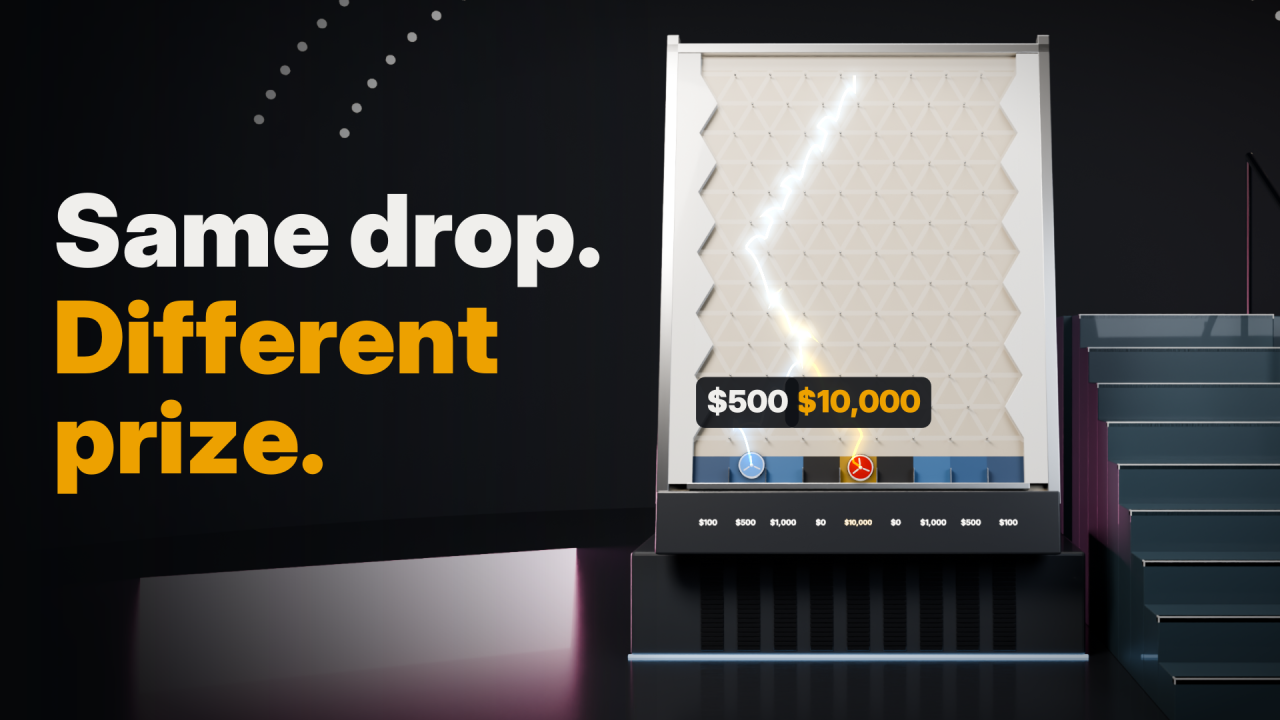
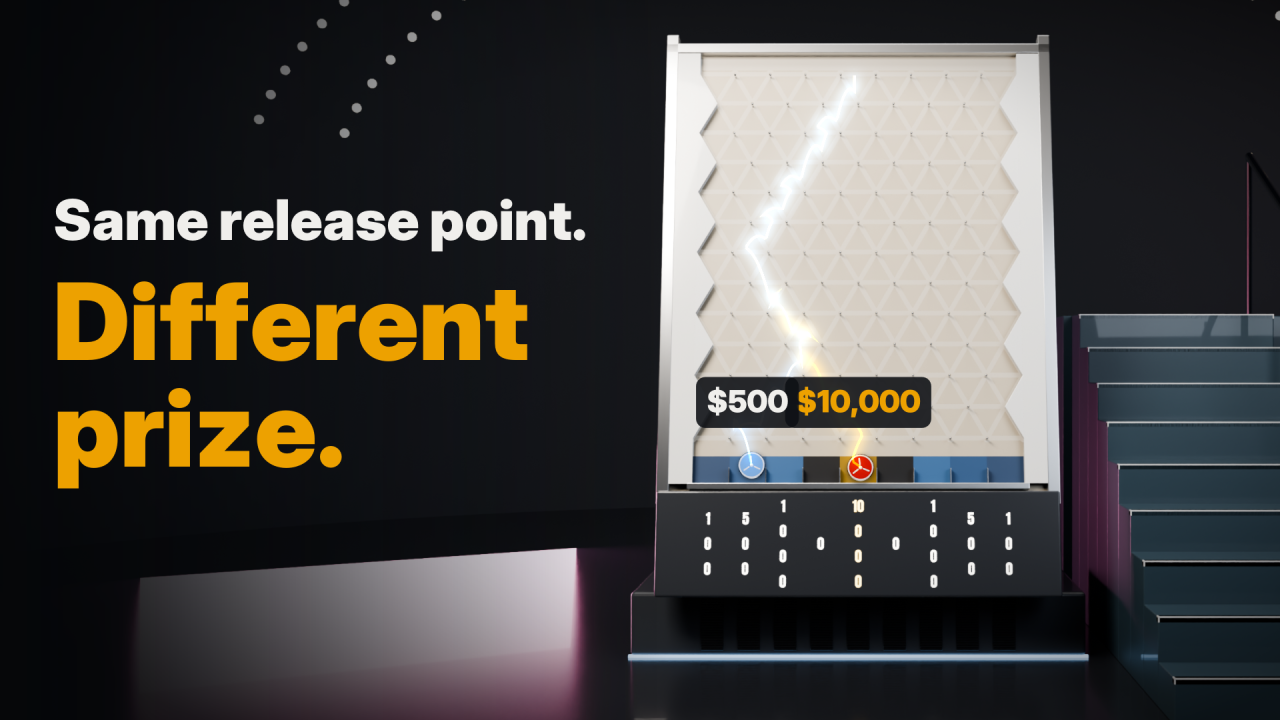
Chaos cut: new thumbnails, titles and description for the 6:07 film
Thumbnails A/B rebuilt from the final hook frame (new stacked prize digits,
"release point" wording) and a new C from the warm-board pair (0.00006 C:
$10,000 became $0). Five titles with lengths and thumbnail pairings; the
description follows the film (chaos theory, round pins, release points,
heat), with 6:07 chapters, tags and an optional pinned comment.

Claude-Session: https://claude.ai/code/session_01S7EUMzPhLyDgSQHoFb2Ud4

diff --git a/plinko/thumbs_chaos.py b/plinko/thumbs_chaos.py
@@ -1,6 +1,9 @@
-"""Thumbnails for the chaos cut (1280x720), from the hook's last frame without its captions.
+"""Thumbnails for the chaos cut (1280x720), from the film's own frames without their captions.
 
-    python3 thumbs_chaos.py   -> ../videos/plinko/thumbnails/plinko_chaos_thumb_A.png, _B.png
+    python3 thumbs_chaos.py   -> ../videos/plinko/thumbnails/plinko_chaos_thumb_A.png, _B.png, _C.png
+
+A and B: the hook's last frame (a $10,000 drop and its atom-close replay in $500).
+C: the warm-board pair (the same release point, the board 0.00006 C warmer: $10,000 and $0).
 """
 import cairo
 import numpy as np
@@ -11,27 +14,38 @@ import draw as D
 import thumbs3d as T
 
 
-def hook_frame(t=15.5):
-    sh = CC.shot_by_name("hook")
+def shot_frame(name, t, overlay):
+    """The composited frame of a shot at time t, with only its glowing trails (captions drawn off-screen)."""
+    sh = CC.shot_by_name(name)
     fr = int(round(t * CC.FPS)) + 1
     img, crop = C3.base_frame(sh, fr, t)
     img = img * C3.vignette()
     cm = C3.cam(sh["cam"])
     gsurf, gctx = C3.glow_layer()
-    CC.ov_hook(cairo.Context(cairo.ImageSurface(cairo.FORMAT_ARGB32, CC.OW, CC.OH)), gctx, t, sh, cm, crop)
-    img = C3.add_glow(img, gsurf)
-    rep = CC.HP["hook_replay"]
+    overlay(cairo.Context(cairo.ImageSurface(cairo.FORMAT_ARGB32, CC.OW, CC.OH)), gctx, t, sh, cm, crop)
+    return C3.add_glow(img, gsurf), cm, crop
 
-    def pills(ctx):
-        CC.board_label(ctx, cm, crop, 5, "$10,000", True, 1.0, -64, 46)
-        k = int(round(rep[-1, 1] / CC.W))
-        CC.board_label(ctx, cm, crop, k, D.SLOT_LABELS[k - 1], False, 1.0, -64, 46)
-    return img, pills
+
+def labels(cm, crop, win, rep):
+    """Prize pills over the two landing slots, stacked when the slots are neighbours."""
+    def draw(ctx):
+        kw, kr = int(round(win[-1, 1] / CC.W)), int(round(rep[-1, 1] / CC.W))
+        adjacent = abs(kw - kr) == 1
+        CC.board_label(ctx, cm, crop, kw, "$10,000", True, 1.0, -150 if adjacent else -64, 46)
+        CC.board_label(ctx, cm, crop, kr, D.SLOT_LABELS[kr - 1], False, 1.0, -64, 46)
+    return draw
 
 
 if __name__ == "__main__":
-    img, pills = hook_frame()
-    T.finish(img.copy(), [("Same drop.", 80, 400, 150, D.INK, "black"), ("Different", 80, 560, 150, D.GOLD, "black"),
-                          ("prize.", 80, 710, 150, D.GOLD, "black")], "plinko_chaos_thumb_A", extra=pills)
+    img, cm, crop = shot_frame("hook", 16.0, CC.ov_hook)
+    pills = labels(cm, crop, CC.HP["hook_win"], CC.HP["hook_replay"])
+    T.finish(img.copy(), [("Same release point.", 80, 360, 84, D.INK, "black"),
+                          ("Different", 80, 540, 160, D.GOLD, "black"), ("prize.", 80, 700, 160, D.GOLD, "black")],
+             "plinko_chaos_thumb_A", extra=pills)
     T.finish(img.copy(), [("Matched to", 80, 360, 120, D.INK, "black"), ("an atom.", 80, 490, 120, D.INK, "black"),
                           ("Still missed.", 80, 640, 120, D.GOLD, "black")], "plinko_chaos_thumb_B", extra=pills)
+    img, cm, crop = shot_frame("warm", 15.5, CC.ov_warm)
+    pills = labels(cm, crop, CC.HP["warm_win"], CC.HP["warm_replay"])
+    T.finish(img.copy(), [("0.00006 °C", 80, 360, 128, D.GOLD, "black"), ("warmer:", 80, 490, 112, D.INK, "black"),
+                          ("$10,000", 80, 650, 128, D.INK, "black"), ("became $0.", 80, 790, 128, D.INK, "black")],
+             "plinko_chaos_thumb_C", extra=pills)

diff --git a/videos/copy/plinko_chaos_YOUTUBE.md b/videos/copy/plinko_chaos_YOUTUBE.md
@@ -4,36 +4,51 @@
 * 6:07, 1920x1080, 30 fps, H.264, AAC stereo at -16 LUFS;
 * narrated (ElevenLabs, "Lily" voice; script in `plinko_chaos_NARRATION.md`), on-screen captions, no music.
 
-This is the main Plinko upload. It replaces the 2:54 chaos cut, whose replay numbers were inflated by
-simulated releases the chip can't physically make (see `plinko/ACCURACY.md` section 7).
+This is the main Plinko upload. It replaces every earlier chaos cut (the 2:54 cut's replay numbers were inflated
+by simulated releases the chip can't physically make; see `plinko/ACCURACY.md` section 7).
 
-**Titles.**
+## Thumbnails
 
-| | Title |
-|---|---|
-| A | Same Drop, Different Prize: Chaos Theory on a Plinko Board |
-| B | Could You Win Plinko Twice With Atomic Precision? |
-| C | Why the Same Plinko Drop Doesn't Win Twice |
+In `plinko/thumbnails/`, 1280x720, built from the film's own frames (`plinko/thumbs_chaos.py`). Upload all three
+to YouTube's thumbnail test, or pair each with its title below.
 
-**Description**
+| | Thumbnail | Shows | Pairs with |
+|---|---|---|---|
+| A | `plinko_chaos_thumb_A.png` | "Same release point. Different prize." The hook's drop and its replay, $10,000 and $500 | Title A |
+| B | `plinko_chaos_thumb_B.png` | "Matched to an atom. Still missed." Same frame | Title B |
+| C | `plinko_chaos_thumb_C.png` | "0.00006 °C warmer: $10,000 became $0." The warm-board pair, $10,000 and $0 | Title D |
+
+## Titles
+
+| | Title | Length |
+|---|---|---|
+| A | Same Drop, Different Prize: Chaos Theory on a Plinko Board | 58 |
+| B | Could You Win Plinko Twice With Atomic Precision? | 49 |
+| C | Why You Can't Repeat a Winning Plinko Drop | 42 |
+| D | How 0.00006 °C Turns a $10,000 Plinko Drop Into $0 | 50 |
+| E | Plinko Is Chaos Theory: The Butterfly Effect on The Price Is Right | 66 |
+
+Recommended: A with thumbnail A. All are true to the film: the replay that "doesn't repeat" wins again
+39% of the time at atomic precision, never every time.
+
+## Description
 
 ```
-Here's a Plinko drop that wins $10,000. Drop it again from the same release point, matched to the width of an atom, and it lands in $500.
+This Plinko drop wins $10,000. Drop it again from the same release point, matched to the width of an atom, and it lands in $500. That's chaos.
 
-Nothing on the board is random. Every bounce follows Newton's laws, so the same release point should always lead to the same slot. Plinko shows why that's not enough: it is chaotic.
+Plinko, from The Price Is Right, is a perfect machine for chaos theory. Nothing on the board is random: every bounce follows Newton's laws, so the same release point should always lead to the same slot. It doesn't, and this film shows why.
 
-Chaos theory studies systems like this: exact rules, no randomness, yet no long-range prediction. It began in 1961, when Edward Lorenz reran a weather simulation from a rounded number (0.506 instead of 0.506127) and got a completely different forecast: sensitive dependence on initial conditions, the butterfly effect.
+Chaos theory studies systems like this: exact rules, no randomness, yet no long-range prediction. It began in 1961, when the meteorologist Edward Lorenz repeated a weather simulation from a rounded number (0.506 instead of 0.506127, about 1 part in 4,000) and two months into the simulated weather the forecasts had nothing in common: sensitive dependence on initial conditions, the butterfly effect.
 
-On a Plinko board the culprit is the round pins. A flat wall faces the same way everywhere, so two chips a hair apart leave a hair apart. A round pin faces a slightly different way at every spot, so two chips that hit it a hair apart bounce off in different directions, and the next pin widens the gap again: about 2.2 times per bounce, doubling every tenth of a second.
+On a Plinko board, the culprit is the round pins. A flat wall faces the same way everywhere, so two chips a hair apart bounce off a hair apart. A round pin faces a slightly different way at every spot, so two chips that hit it a hair apart bounce off in different directions, and the next pin widens the gap again: about 2.2 times per bounce, doubling every tenth of a second, nearly a trillion times over a whole drop.
 
-I measured the board from broadcast frames, rebuilt it in a physics engine and in Blender, and ran the experiment: find a release point that wins, then replay it as precisely as you like.
+I measured the board from broadcast frames, rebuilt it in a physics simulator and in Blender, and ran the experiment: find a release point that wins, then replay it as precisely as you like.
 
-- A player can let go anywhere across the top, at the pins or up to 30 cm (12 in) above them. Find winning drops from all over that area and replay each from exactly the same release point.
-- Replayed to within a micron, a winner wins again 16% of the time, barely better than a fresh drop (13%).
-- Replayed to within an atom: 39%. Better odds, still worse than a coin flip, never a sure thing.
-- Below a nanometre, each tenfold gain in precision removes only about 35% of the remaining misses. Even a hundred-thousandth of an atom misses 1 time in 22.
-- Why: zoom into the map of release points, first a square 4 cm across, then a single winning release point, a hundred times closer with each step. At any scale a hand could control, it looks like static. The gold turns solid only within a few atoms of it, and most winning release points never do (only 13 in 100 are solid gold even at the scale of one atom).
-- Make the release point perfect and change just one thing: the board's temperature. Where would the heat come from? The chips themselves. A chip at the top holds about 5 joules from its height; as it falls that becomes speed, and every hit on a pin turns some of it into heat, until all 5 joules are heat. Spread through the board, that's 0.00006 C warmer, and warm wood and steel expand: the board grows about a nanometre, the width of ten atoms. Doubled by about twenty bounces, a nanometre becomes a centimetre: a different slot. Replayed exactly on a board that much warmer, winning drops win again only 39% of the time; even a billionth of a degree spoils 6 replays in 100.
+- A player can let go anywhere across the top, at the pins or up to 30 cm (12 in) above them. Of all those release points, 13% win $10,000.
+- Replayed to within a micron, a winning drop wins again 16% of the time: barely better than a fresh drop.
+- Replayed to within an atom: 39%. Still worse than a coin flip. Even at a hundred-thousandth of an atom, 1 replay in 22 misses.
+- Zoom into the release points: at every scale a hand could control, gold and grey are mixed like static. Around one winning release point the gold turns solid only within a few atoms, and most winning release points never turn solid at all.
+- Then make the release point perfect and change just one thing: the board's temperature. A chip at the top holds about 5 joules of energy from its height. As it falls that becomes speed, and every hit on a pin turns some of it into heat, until all 5 joules are heat. Spread through the board, that's 0.00006 °C warmer, and warm wood and steel expand: the board grows about a nanometre, the width of ten atoms. Doubled by about twenty bounces, a nanometre becomes a centimetre: a different slot. On a board warmed by one drop, winning drops win again only 39% of the time. Even a billionth of a degree spoils 6 replays in 100.
 
 One drop can't be predicted. Four hundred can, and the pile they make is why the middle still pays best.
 
@@ -51,10 +66,21 @@ One drop can't be predicted. Four hundred can, and the pile they make is why the
 5:31 One drop vs four hundred
 5:55 Deterministic, and unpredictable
 
-How it's made: the board is built in Blender from measurements of the TV board; every chip path comes from the simulator. Show results from tpirstats.com (seasons 44 to 54). Method, sources and every number: https://github.com/drburke-droid/nhl-sog-predictor/blob/master/plinko/ACCURACY.md
+How it's made: the board is built in Blender from measurements of the TV board, and every chip path comes from a 2D rigid-body simulator tuned to 1,029 real chips from the show (tpirstats.com, seasons 44 to 54). Narration: ElevenLabs ("Lily"). Method, sources and every number: https://github.com/drburke-droid/nhl-sog-predictor/blob/master/plinko/ACCURACY.md
 
-Independent analysis; not affiliated with the show or the network. The board is a measured replica without the show's branding.
+Independent analysis; not affiliated with The Price Is Right, its producers or the network. The board is a measured replica without the show's branding.
+
+#chaostheory #plinko #physics
 ```
 
-**Tags:** chaos theory, butterfly effect, plinko, price is right, physics simulation, blender, sensitive
-dependence on initial conditions, deterministic chaos, lyapunov exponent
+## Tags
+
+chaos theory, butterfly effect, plinko, price is right, plinko physics, lorenz attractor, edward lorenz,
+sensitive dependence on initial conditions, deterministic chaos, exponential growth, lyapunov exponent,
+thermal expansion, physics simulation, blender
+
+## Pinned comment (optional)
+
+```
+Which would you rather have: aim accurate to a single atom, or a board held to a billionth of a degree? Neither gets you to 100%. (Chapters and every number are in the description.)
+```

diff --git a/videos/README.md b/videos/README.md
@@ -17,7 +17,7 @@ Thumbnails are in each folder's `thumbnails/`; titles, descriptions and tags alr
 
 | File | Format | Length | What it is |
 |---|---|---|---|
-| plinko_chaos_same_release_point_different_finish_narrated_6m07s.mp4 | 16:9 | 6:07 | **Use this one.** Narrated (ElevenLabs, Lily voice; script `copy/plinko_chaos_NARRATION.md`). Chaos theory told with the board, with a chapter on what chaos theory is (Lorenz, the butterfly attractor), a flat wall vs a round pin, and one chip's energy turning into heat: a winning drop replayed to an atom's width lands in $500; why round pins make chaos; releases from anywhere across the top, up to 30 cm above the pins; replaying winners at any precision (16% at 1 micron vs 13% fresh, 39% at 1 atom, never certain); a map of every release point, a 4 cm square of them, and one winning release point zoomed a hundredfold at a time; a perfect start with only the board's temperature changed (one drop's heat turns $10,000 into $0; a billionth of a degree still matters); a real board is never the same twice. Copy: `copy/plinko_chaos_YOUTUBE.md`, thumbnails plinko_chaos_thumb_A/B |
+| plinko_chaos_same_release_point_different_finish_narrated_6m07s.mp4 | 16:9 | 6:07 | **Use this one.** Narrated (ElevenLabs, Lily voice; script `copy/plinko_chaos_NARRATION.md`). Chaos theory told with the board, with a chapter on what chaos theory is (Lorenz, the butterfly attractor), a flat wall vs a round pin, and one chip's energy turning into heat: a winning drop replayed to an atom's width lands in $500; why round pins make chaos; releases from anywhere across the top, up to 30 cm above the pins; replaying winners at any precision (16% at 1 micron vs 13% fresh, 39% at 1 atom, never certain); a map of every release point, a 4 cm square of them, and one winning release point zoomed a hundredfold at a time; a perfect start with only the board's temperature changed (one drop's heat turns $10,000 into $0; a billionth of a degree still matters); a real board is never the same twice. Copy: `copy/plinko_chaos_YOUTUBE.md`, thumbnails plinko_chaos_thumb_A/B/C |
 | where_to_drop_a_plinko_chip_blender_2m55s.mp4 | 16:9 | 2:55 | Second choice to the chaos cut; its micron claim holds (see `copy/plinko_blender_YOUTUBE.md`). The Blender edition: a to-scale studio board rendered in Cycles, chips from the simulator with real motion blur, an LED bar-chart panel for the data, and the micron question (could perfect aim win every time? no). Copy: `copy/plinko_blender_YOUTUBE.md`, thumbnails plinko_blender_thumb_A/B |
 | where_to_drop_a_plinko_chip_3m21s.mp4 | 16:9 | 3:21 | Where to drop a Plinko chip: the board measured, the textbook coin-flip answer, 1,029 real chips, a physics rebuild tuned to them, chaos, and the verdict. Copy: `copy/plinko_YOUTUBE.md`, thumbnails plinko_thumb_A/B. Built by `plinko/` (see its README and ACCURACY.md) |
 | where_to_drop_a_plinko_chip_SHORT_58s.mp4 | vertical | 0:58 | Short cut of the same |

diff --git a/plinko/README.md b/plinko/README.md
@@ -32,7 +32,7 @@ contestants dropping all over. Drop-position logs would settle it.
 
 | File | What |
 |---|---|
-| `../videos/plinko/plinko_chaos_same_release_point_different_finish_narrated_6m07s.mp4` | **The chaos cut (main film)**: 1920x1080, 30 fps, H.264, 11,025 frames = 367.5 s, narrated (ElevenLabs, Lily voice; script `../videos/copy/plinko_chaos_NARRATION.md`). Thumbnails `plinko_chaos_thumb_A/B` |
+| `../videos/plinko/plinko_chaos_same_release_point_different_finish_narrated_6m07s.mp4` | **The chaos cut (main film)**: 1920x1080, 30 fps, H.264, 11,025 frames = 367.5 s, narrated (ElevenLabs, Lily voice; script `../videos/copy/plinko_chaos_NARRATION.md`). Thumbnails `plinko_chaos_thumb_A/B/C` |
 | `../videos/plinko/where_to_drop_a_plinko_chip_blender_2m55s.mp4` | The Blender edition: 1920x1080, 30 fps, H.264 High / yuv420p, 5,250 frames = 175.0 s. Thumbnails `plinko_blender_thumb_A/B` (`thumbs3d.py`), stills in `media/stills_blender/` |
 | `../videos/plinko/where_to_drop_a_plinko_chip_3m21s.mp4` | The film: 1920x1080, 30 fps, H.264 High / yuv420p, 6,030 frames = 201.0 s, on-screen captions, no narration |
 | `../videos/plinko/where_to_drop_a_plinko_chip_SHORT_58s.mp4` | Vertical cut, 1080x1920, 1,725 frames = 57.5 s |
